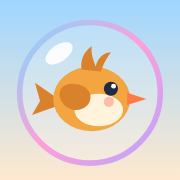
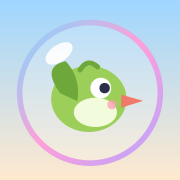
Rename the site to Bubble Dare and move it to bubbledare.mothlark.com
App Review rejected the game under guideline 4.1(a) (Copycats): "Bubble
Flap" read as Flappy Bird. The game is now Bubble Dare with a green
default bird. This renames every page, moves the custom domain (CNAME,
canonical and og URLs, sitemap, robots), swaps the site's orange bird
for the game's own bird in green (sprite, icon.svg, favicon,
apple-touch icon, og-image), softens the "tap to flap" copy and dates
the privacy policy 3 October 2026.

Merge only after the bubbledare DNS record points at GitHub Pages.

Claude-Session: https://claude.ai/code/session_01Ee8iGyhH9rbDDUrzaJxLwu

Changed region(s): [[0.1667, 0.25, 0.8056, 0.75]]

diff --git a/index.html b/index.html
@@ -3,18 +3,18 @@
 <head>
   <meta charset="utf-8">
   <meta name="viewport" content="width=device-width, initial-scale=1, viewport-fit=cover">
-  <title>Bubble Flap — keep flying, pop bubbles</title>
-  <meta name="description" content="Bubble Flap is a one-tap flying game for iPhone and iPad. Pop soap bubbles for energy, burst out of trapping bubbles for big rewards, and dodge live wires.">
-  <link rel="canonical" href="https://bubbleflap.mothlark.com/">
+  <title>Bubble Dare — pop bubbles, dare the swirl</title>
+  <meta name="description" content="Bubble Dare is a one-tap flying game for iPhone and iPad. Pop soap bubbles for energy, burst out of trapping bubbles for big rewards, and dodge live wires.">
+  <link rel="canonical" href="https://bubbledare.mothlark.com/">
   <meta name="theme-color" content="#bfe4ff" media="(prefers-color-scheme: light)">
   <meta name="theme-color" content="#0e1834" media="(prefers-color-scheme: dark)">
 
   <meta property="og:type" content="website">
-  <meta property="og:site_name" content="Bubble Flap">
-  <meta property="og:title" content="Bubble Flap — keep flying, pop bubbles">
+  <meta property="og:site_name" content="Bubble Dare">
+  <meta property="og:title" content="Bubble Dare — pop bubbles, dare the swirl">
   <meta property="og:description" content="A one-tap flying game for iPhone and iPad. Pop bubbles, break free, dodge the wires.">
-  <meta property="og:url" content="https://bubbleflap.mothlark.com/">
-  <meta property="og:image" content="https://bubbleflap.mothlark.com/assets/img/og-image.png">
+  <meta property="og:url" content="https://bubbledare.mothlark.com/">
+  <meta property="og:image" content="https://bubbledare.mothlark.com/assets/img/og-image.png">
   <meta property="og:image:width" content="1200">
   <meta property="og:image:height" content="630">
   <meta name="twitter:card" content="summary_large_image">
@@ -32,8 +32,8 @@
   {
     "@context": "https://schema.org",
     "@type": "VideoGame",
-    "name": "Bubble Flap",
-    "url": "https://bubbleflap.mothlark.com/",
+    "name": "Bubble Dare",
+    "url": "https://bubbledare.mothlark.com/",
     "description": "A one-tap flying game: pop soap bubbles for energy, burst out of trapping bubbles for big rewards, and dodge live wires.",
     "gamePlatform": ["iPhone", "iPad"],
     "operatingSystem": "iOS, iPadOS",
@@ -64,24 +64,26 @@
         <circle cx="21" cy="24" r="3.2" fill="#ffffff" opacity="0.7"/>
       </symbol>
       <symbol id="bird" viewBox="0 0 120 100">
-        <path d="M24 54 L4 40 L9 58 L1 72 L26 63 Z" style="fill:var(--bird-wing)"/>
-        <ellipse cx="60" cy="56" rx="38" ry="32" style="fill:var(--bird-body)"/>
-        <ellipse cx="67" cy="67" rx="24" ry="16" style="fill:var(--bird-belly)"/>
-        <path d="M50 27 C48 14 56 7 60 4 C59 12 62 18 64 24 C66 14 74 10 79 10 C73 18 71 24 69 29 Z" style="fill:var(--bird-wing)"/>
-        <path class="wing" d="M30 58 C24 46 34 38 48 42 C58 45 62 54 56 62 C48 70 36 68 30 58 Z" style="fill:var(--bird-wing)" stroke="#ffffff" stroke-opacity="0.35" stroke-width="2"/>
-        <circle cx="79" cy="46" r="7" fill="#1f2a44"/>
-        <circle cx="81.6" cy="43.4" r="2.4" fill="#ffffff"/>
-        <circle cx="77" cy="59" r="5" fill="#ff8f7f" opacity="0.55"/>
-        <path d="M95 50 L114 56 L95 62 Z" style="fill:var(--bird-beak)"/>
+        <!-- the game's bird (icons/icon-source.svg in the game repo), default plumage "Kiwi" -->
+        <g transform="translate(56.7 54.8) scale(0.217)">
+          <ellipse cx="0" cy="0" rx="196" ry="172" style="fill:var(--bird-body)"/>
+          <ellipse cx="34" cy="70" rx="112" ry="76" style="fill:var(--bird-belly)"/>
+          <path class="wing" style="fill:var(--bird-wing);transform-origin:85% 95%" d="M-150 -30 Q-250 -170 -120 -196 Q-40 -108 -60 12 Z"/>
+          <circle cx="62" cy="-56" r="54" fill="#ffffff"/>
+          <circle cx="82" cy="-56" r="27" fill="#2b2f4a"/>
+          <circle cx="120" cy="30" r="24" fill="#ff9eb1" fill-opacity="0.75"/>
+          <path d="M168 -22 L282 10 L168 46 Z" style="fill:var(--bird-beak)"/>
+          <path d="M-46 -150 Q-8 -214 46 -166" fill="none" style="stroke:var(--bird-wing)" stroke-width="26" stroke-linecap="round"/>
+        </g>
       </symbol>
     </defs>
   </svg>
 
   <header class="site-header">
     <div class="wrap">
-      <a class="brand" href="/" aria-label="Bubble Flap home">
+      <a class="brand" href="/" aria-label="Bubble Dare home">
         <svg viewBox="0 0 120 100" aria-hidden="true"><use href="#bird"/></svg>
-        Bubble Flap
+        Bubble Dare
       </a>
       <nav class="nav" aria-label="Main">
         <a href="#how" class="hide-sm">How to play</a>
@@ -98,7 +100,7 @@
         <div>
           <span class="eyebrow">A one-tap flying game</span>
           <h1 id="hero-title">Keep flying.<br><span class="pop">Pop bubbles.</span></h1>
-          <p class="lead">You're a little bird who can't stop flapping. Burst soap bubbles for energy, break free of the ones that trap you, and steer clear of the live wires.</p>
+          <p class="lead">You're a little bird out over the suburb. Burst soap bubbles for energy, break free of the ones that trap you, and steer clear of the live wires.</p>
           <div class="cta-row">
             <!-- LAUNCH: replace this placeholder with Apple's official
                  "Download on the App Store" badge (developer.apple.com/app-store/marketing/guidelines)
@@ -112,7 +114,7 @@
         </div>
 
         <div class="hero-art">
-          <svg class="scene" viewBox="0 0 600 440" role="img" aria-label="A small orange bird flying among floating soap bubbles in a morning sky">
+          <svg class="scene" viewBox="0 0 600 440" role="img" aria-label="A small green bird flying among floating soap bubbles in a morning sky">
             <circle cx="120" cy="90" r="54" style="fill:var(--sun)" opacity="0.85"/>
             <g class="float d1"><use href="#bubble" x="340" y="10" width="210" height="210"/></g>
             <g class="float d1">
@@ -185,7 +187,7 @@
               <g stroke="#9aa6c2" stroke-width="3" stroke-linecap="round"><line x1="4" y1="24" x2="14" y2="24"/><line x1="2" y1="34" x2="12" y2="34"/><line x1="6" y1="44" x2="14" y2="44"/></g>
               <svg x="12" y="10" width="52" height="44" viewBox="0 0 120 100"><use href="#bird"/></svg>
             </svg>
-            <h3>Tap to flap</h3>
+            <h3>Tap to fly</h3>
             <p>Every tap gives you lift. Stop tapping and gravity wins.</p>
           </article>
           <article class="card step">
@@ -194,7 +196,7 @@
               <path d="M34 18 L24 34 L32 34 L28 48 L40 29 L32 29 Z" fill="#ffd23f" stroke="#e0a800" stroke-width="1.5" stroke-linejoin="round"/>
             </svg>
             <h3>Pop for energy</h3>
-            <p>Flapping burns energy. Burst bubbles to fill it back up.</p>
+            <p>Every tap burns energy. Burst bubbles to fill it back up.</p>
           </article>
           <article class="card step">
             <svg class="icon" viewBox="0 0 64 64" aria-hidden="true">
@@ -224,7 +226,7 @@
           <h2 id="features-title">Small game, big sky</h2>
         </div>
         <div class="features">
-          <div class="feature"><span class="dot" aria-hidden="true"></span><div><h3>One-tap controls</h3><p>Tap to flap — that's the whole control scheme. Easy to learn, hard to master.</p></div></div>
+          <div class="feature"><span class="dot" aria-hidden="true"></span><div><h3>One-tap controls</h3><p>Tap to fly — that's the whole control scheme. Easy to learn, hard to master.</p></div></div>
           <div class="feature"><span class="dot" aria-hidden="true"></span><div><h3>Risk-and-reward bubbles</h3><p>Stay trapped a little longer for a bigger payout, if you can tap your way out in time.</p></div></div>
           <div class="feature"><span class="dot" aria-hidden="true"></span><div><h3>A sunny suburb</h3><p>Fly over rooftops, gardens and power lines in a bright neighbourhood sky.</p></div></div>
           <div class="feature"><span class="dot" aria-hidden="true"></span><div><h3>Game Center leaderboards</h3><p>Chase your friends' best flights and climb the rankings.</p></div></div>
@@ -264,7 +266,7 @@
       <div class="wrap">
         <svg viewBox="0 0 120 100" width="96" height="80" aria-hidden="true" style="margin:0 auto 12px" class="bird"><use href="#bird"/></svg>
         <h2 id="final-title">Ready to take off?</h2>
-        <p class="lead center">Bubble Flap is landing on iPhone and iPad soon.</p>
+        <p class="lead center">Bubble Dare is landing on iPhone and iPad soon.</p>
         <div class="cta-row">
           <a class="btn btn-primary" aria-disabled="true" role="link"><span class="stack"><small>Coming soon to the</small>App Store</span></a>
           <a class="btn btn-ghost" href="/support/">Questions? Get support</a>

diff --git a/privacy/index.html b/privacy/index.html
@@ -3,9 +3,9 @@
 <head>
   <meta charset="utf-8">
   <meta name="viewport" content="width=device-width, initial-scale=1, viewport-fit=cover">
-  <title>Privacy policy — Bubble Flap</title>
-  <meta name="description" content="How Bubble Flap handles your information: no accounts, progress stays on your device, Game Center scores go to Apple, and ads come from Google AdMob.">
-  <link rel="canonical" href="https://bubbleflap.mothlark.com/privacy/">
+  <title>Privacy policy — Bubble Dare</title>
+  <meta name="description" content="How Bubble Dare handles your information: no accounts, progress stays on your device, Game Center scores go to Apple, and ads come from Google AdMob.">
+  <link rel="canonical" href="https://bubbledare.mothlark.com/privacy/">
   <link rel="icon" href="/assets/img/icon.svg" type="image/svg+xml">
   <link rel="icon" href="/assets/img/favicon-32.png" sizes="32x32" type="image/png">
   <link rel="apple-touch-icon" href="/assets/img/apple-touch-icon.png">
@@ -15,9 +15,9 @@
   <a class="skip" href="#main">Skip to content</a>
   <header class="site-header">
     <div class="wrap">
-      <a class="brand" href="/" aria-label="Bubble Flap home">
+      <a class="brand" href="/" aria-label="Bubble Dare home">
         <img src="/assets/img/icon.svg" width="38" height="38" alt="">
-        Bubble Flap
+        Bubble Dare
       </a>
       <nav class="nav" aria-label="Main">
         <a href="/">Home</a>
@@ -29,12 +29,12 @@
   <main id="main" class="doc">
     <div class="wrap">
       <h1>Privacy policy</h1>
-      <p class="meta">Last updated: 30 September 2026</p>
+      <p class="meta">Last updated: 3 October 2026</p>
 
       <div class="summary">
         <p><strong>The short version:</strong></p>
         <ul>
-          <li>Bubble Flap has no accounts and keeps your progress on your device. We don't collect personal data ourselves.</li>
+          <li>Bubble Dare has no accounts and keeps your progress on your device. We don't collect personal data ourselves.</li>
           <li>The game is free because it shows ads from Google AdMob. Google collects some information from your device to show them, and personalised ads are shown only if you allow it.</li>
           <li>If you use Game Center, your scores and achievements are handled by Apple.</li>
           <li>If you email us, we only use your message to reply to you.</li>
@@ -42,14 +42,14 @@
       </div>
 
       <h2>Who we are</h2>
-      <p>Bubble Flap is made by Stefán Jóhann Arngrímsson, an independent developer based in Iceland who publishes games under the name Mothlark (“we”, “us”). We are responsible for this policy and you can reach us at <a href="mailto:support@mothlark.com">support@mothlark.com</a>.</p>
+      <p>Bubble Dare is made by Stefán Jóhann Arngrímsson, an independent developer based in Iceland who publishes games under the name Mothlark (“we”, “us”). We are responsible for this policy and you can reach us at <a href="mailto:support@mothlark.com">support@mothlark.com</a>.</p>
 
       <h2>Information the game collects</h2>
-      <p>We don't collect any. Bubble Flap does not ask for your name, email or any other personal details, and we don't use analytics or crash-reporting services. The advertising software in the game does collect some information, as described under <a href="#advertising">Advertising</a>.</p>
+      <p>We don't collect any. Bubble Dare does not ask for your name, email or any other personal details, and we don't use analytics or crash-reporting services. The advertising software in the game does collect some information, as described under <a href="#advertising">Advertising</a>.</p>
       <p>Your game progress and settings (such as your best score) are saved only on your device. We can't see them, and they are removed if you delete the app.</p>
 
       <h2>Game Center</h2>
-      <p>Bubble Flap uses Apple's Game Center for leaderboards and achievements. If you're signed in to Game Center on your device, your scores and achievements are sent to Apple and shown to other players together with your Game Center nickname and avatar. This is handled by Apple under <a href="https://www.apple.com/legal/privacy/">Apple's privacy policy</a>. We don't receive your Apple Account, email address or real name.</p>
+      <p>Bubble Dare uses Apple's Game Center for leaderboards and achievements. If you're signed in to Game Center on your device, your scores and achievements are sent to Apple and shown to other players together with your Game Center nickname and avatar. This is handled by Apple under <a href="https://www.apple.com/legal/privacy/">Apple's privacy policy</a>. We don't receive your Apple Account, email address or real name.</p>
       <p>You can stop sharing with Game Center at any time by signing out under <strong>Settings → Game Center</strong> on your iPhone or iPad. The game works fine without it.</p>
 
       <h2 id="advertising">Advertising</h2>
@@ -72,7 +72,7 @@
       <p>This website does not use cookies, analytics or tracking scripts, and it loads no third-party content. It is hosted by GitHub Pages, which may log visitors' IP addresses for security and to keep the service running; see the <a href="https://docs.github.com/site-policy/privacy-policies/github-general-privacy-statement">GitHub privacy statement</a>.</p>
 
       <h2>Children</h2>
-      <p>Bubble Flap is suitable for players of all ages. We don't collect personal data from anyone, children included, and the game asks Google for ads rated suitable for all ages.</p>
+      <p>Bubble Dare is suitable for players of all ages. We don't collect personal data from anyone, children included, and the game asks Google for ads rated suitable for all ages.</p>
 
       <h2>Your rights</h2>
       <p>Under data protection law (including the GDPR, which applies in Iceland) you have the right to ask what personal data we hold about you, and to have it corrected or deleted. In practice, the only personal data we could hold is a support email you've sent us. For information Google and its advertising partners collect for ads, use the choices under <a href="#advertising">Advertising</a>, or contact Google through its privacy policy and the partners through the policies linked in the consent form. Write to <a href="mailto:support@mothlark.com">support@mothlark.com</a> and we'll respond within 30 days. You can also complain to the Icelandic Data Protection Authority, <a href="https://www.personuvernd.is/">Persónuvernd</a>, or to the data protection authority where you live.</p>

diff --git a/support/index.html b/support/index.html
@@ -3,9 +3,9 @@
 <head>
   <meta charset="utf-8">
   <meta name="viewport" content="width=device-width, initial-scale=1, viewport-fit=cover">
-  <title>Support — Bubble Flap</title>
-  <meta name="description" content="Get help with Bubble Flap: answers to common questions and how to contact us.">
-  <link rel="canonical" href="https://bubbleflap.mothlark.com/support/">
+  <title>Support — Bubble Dare</title>
+  <meta name="description" content="Get help with Bubble Dare: answers to common questions and how to contact us.">
+  <link rel="canonical" href="https://bubbledare.mothlark.com/support/">
   <link rel="icon" href="/assets/img/icon.svg" type="image/svg+xml">
   <link rel="icon" href="/assets/img/favicon-32.png" sizes="32x32" type="image/png">
   <link rel="apple-touch-icon" href="/assets/img/apple-touch-icon.png">
@@ -15,9 +15,9 @@
   <a class="skip" href="#main">Skip to content</a>
   <header class="site-header">
     <div class="wrap">
-      <a class="brand" href="/" aria-label="Bubble Flap home">
+      <a class="brand" href="/" aria-label="Bubble Dare home">
         <img src="/assets/img/icon.svg" width="38" height="38" alt="">
-        Bubble Flap
+        Bubble Dare
       </a>
       <nav class="nav" aria-label="Main">
         <a href="/">Home</a>
@@ -36,14 +36,14 @@
           <h2>Email us</h2>
           <p>We usually reply within a few days.</p>
         </div>
-        <a class="btn btn-primary" href="mailto:support@mothlark.com?subject=Bubble%20Flap%20support">support@mothlark.com</a>
+        <a class="btn btn-primary" href="mailto:support@mothlark.com?subject=Bubble%20Dare%20support">support@mothlark.com</a>
       </div>
 
       <p>If you're reporting a problem, it helps a lot to include:</p>
       <ul>
         <li>Your device (for example iPhone 15 or iPad Air)</li>
         <li>Your iOS or iPadOS version (<strong>Settings → General → About</strong>)</li>
-        <li>The Bubble Flap version (shown in the App Store under <strong>Version History</strong>)</li>
+        <li>The Bubble Dare version (shown in the App Store under <strong>Version History</strong>)</li>
         <li>What happened, and a screenshot or screen recording if you can</li>
       </ul>
 
@@ -52,7 +52,7 @@
         <details>
           <summary>How do I play?</summary>
           <div>
-            <p>Tap anywhere to flap. Flapping uses energy, so pop bubbles to refill it. Some bubbles pull you inside: tap quickly to pop them from the inside. The longer you stay in, the bigger the reward, but stay too long and it's game over. Flying past poles is safe; touching a live, sparking wire is not.</p>
+            <p>Tap anywhere to fly. Every tap uses energy, so pop bubbles to refill it. Some bubbles pull you inside: tap quickly to pop them from the inside. The longer you stay in, the bigger the reward, but stay too long and it's game over. Flying past poles is safe; touching a live, sparking wire is not.</p>
           </div>
         </details>
         <details>
@@ -70,7 +70,7 @@
         <details>
           <summary>Which devices are supported?</summary>
           <div>
-            <p>Bubble Flap runs on iPhone and iPad and plays in landscape. The minimum iOS version is listed on the App Store page.</p>
+            <p>Bubble Dare runs on iPhone and iPad and plays in landscape. The minimum iOS version is listed on the App Store page.</p>
           </div>
         </details>
         <details>
@@ -82,7 +82,7 @@
         <details>
           <summary>Is it available on Android?</summary>
           <div>
-            <p>Not yet. Bubble Flap is launching on iPhone and iPad first.</p>
+            <p>Not yet. Bubble Dare is launching on iPhone and iPad first.</p>
           </div>
         </details>
         <details>
@@ -92,7 +92,7 @@
           </div>
         </details>
         <details>
-          <summary>Does Bubble Flap collect my data?</summary>
+          <summary>Does Bubble Dare collect my data?</summary>
           <div>
             <p>We don't: there are no accounts, and your progress stays on your device. The game is free and shows ads from Google, and Google's ad software collects some information from your device to show them. Personalised ads are shown only if you allow it. See our <a href="/privacy/">privacy policy</a> for details.</p>
           </div>

diff --git a/404.html b/404.html
@@ -3,7 +3,7 @@
 <head>
   <meta charset="utf-8">
   <meta name="viewport" content="width=device-width, initial-scale=1">
-  <title>Page not found — Bubble Flap</title>
+  <title>Page not found — Bubble Dare</title>
   <meta name="robots" content="noindex">
   <link rel="icon" href="/assets/img/icon.svg" type="image/svg+xml">
   <link rel="stylesheet" href="/assets/css/site.css">
@@ -15,7 +15,7 @@
       <h1>Pop! This page burst.</h1>
       <p class="lead center">We couldn't find the page you were looking for.</p>
       <div class="cta-row" style="justify-content:center">
-        <a class="btn btn-primary" href="/">Back to Bubble Flap</a>
+        <a class="btn btn-primary" href="/">Back to Bubble Dare</a>
         <a class="btn btn-ghost" href="/support/">Support</a>
       </div>
     </div>

diff --git a/assets/css/site.css b/assets/css/site.css
@@ -1,4 +1,4 @@
-/* Bubble Flap — site styles
+/* Bubble Dare — site styles
    No web fonts or third-party requests: the rounded system font is used on Apple devices. */
 
 :root {
@@ -14,10 +14,10 @@
   --wire: #3b3f52;
   --spark: #ffd23f;
 
-  --bird-body: #f2a541;
-  --bird-wing: #d9822b;
-  --bird-belly: #fff3dc;
-  --bird-beak: #ff7a45;
+  --bird-body: #9ccf5a;
+  --bird-wing: #6fa83a;
+  --bird-belly: #f2fbdc;
+  --bird-beak: #f07a6a;
 
   --bubble-a: #7fd8ff;
   --bubble-b: #ff9fd9;

diff --git a/README.md b/README.md
@@ -1,6 +1,12 @@
-# bubbleflap.mothlark.com
+# bubbledare.mothlark.com
 
-Static website for **Bubble Flap**, served by GitHub Pages from `main` / root.
+Static website for **Bubble Dare**, served by GitHub Pages from `main` / root.
+
+The game was called Bubble Flap until October 2026, when App Review rejected it under
+guideline 4.1(a) (Copycats) for reading as Flappy Bird. The site moved from
+bubbleflap.mothlark.com to bubbledare.mothlark.com at the same time. Keep "Flap",
+"Flappy" and other games' names out of the copy, and the bird green (the game's default, Kiwi).
+
 Plain HTML and CSS: no build step, no JavaScript, no web fonts, no cookies, and nothing loaded from third parties.
 
 ```
@@ -20,9 +26,9 @@ Preview locally: `python3 -m http.server 8000`, then open http://localhost:8000
 
 | Field | URL |
 |---|---|
-| Marketing URL | https://bubbleflap.mothlark.com/ |
-| Support URL | https://bubbleflap.mothlark.com/support/ |
-| Privacy Policy URL | https://bubbleflap.mothlark.com/privacy/ |
+| Marketing URL | https://bubbledare.mothlark.com/ |
+| Support URL | https://bubbledare.mothlark.com/support/ |
+| Privacy Policy URL | https://bubbledare.mothlark.com/privacy/ |
 
 ## Launch checklist
 
